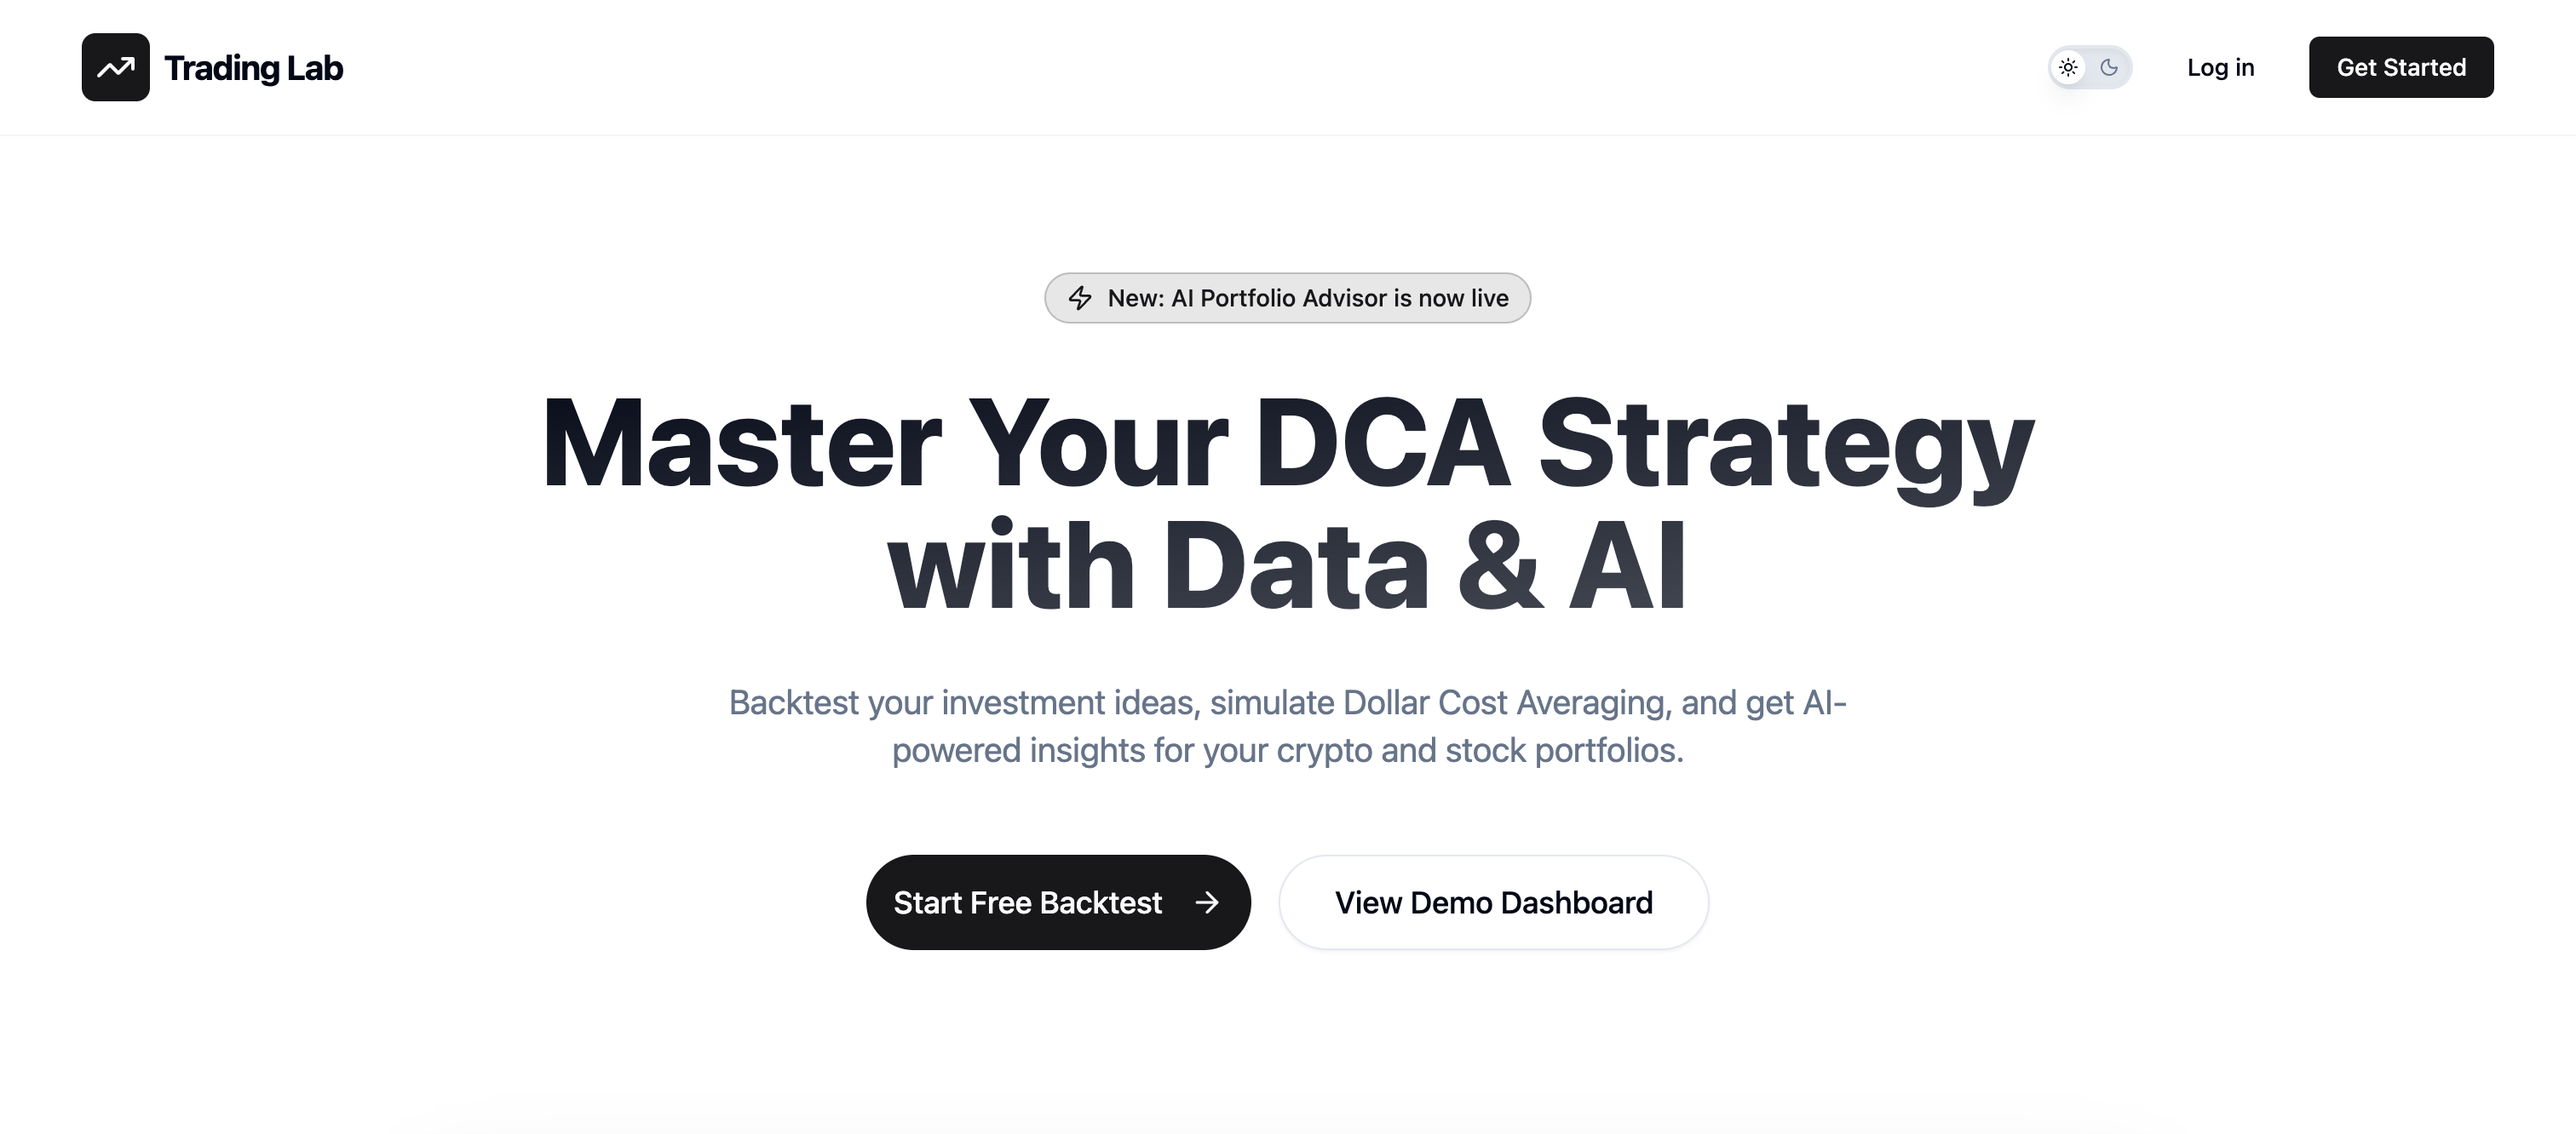
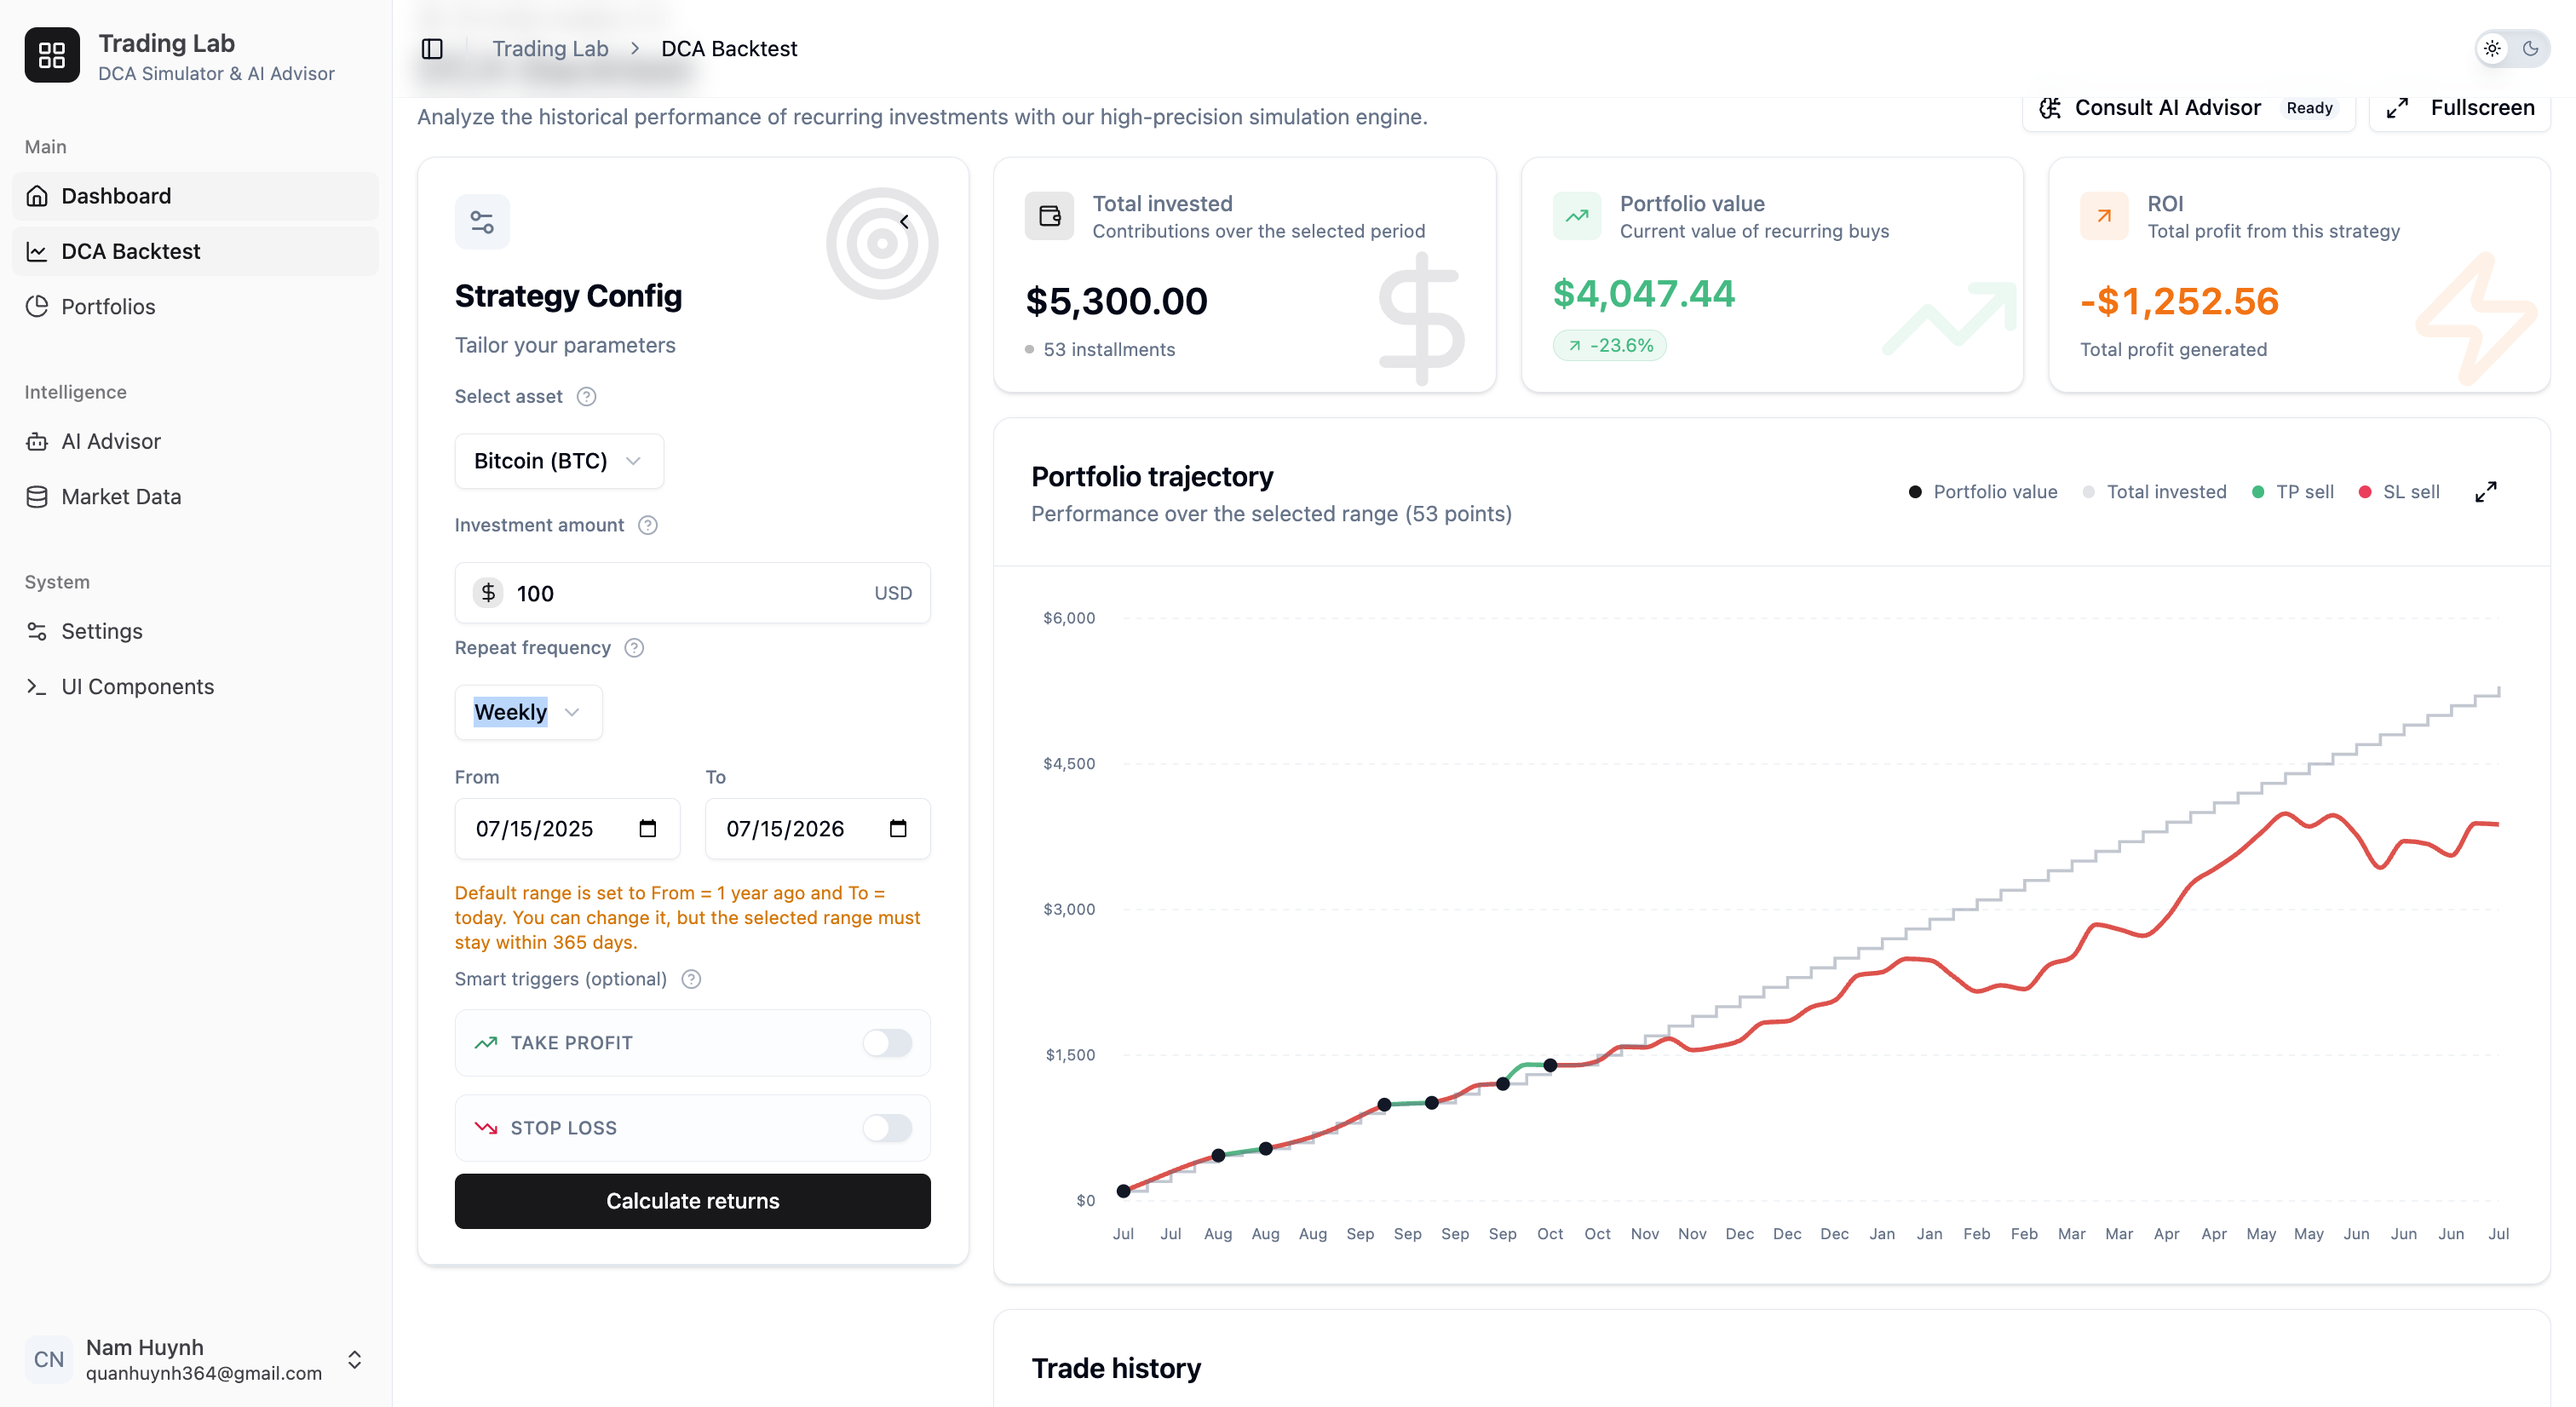
add more project and fix layout

diff --git a/src/styles.css b/src/styles.css
@@ -2836,15 +2836,12 @@ img {
 
 .coming-soon-card {
   cursor: default;
+  grid-column: 1 / -1;
+  height: auto;
 }
 
-.coming-soon-card .flip-front {
-  border-style: dashed;
-  background: repeating-linear-gradient(-45deg,
-      transparent,
-      transparent 8px,
-      rgba(var(--accent-rgb), 0.03) 8px,
-      rgba(var(--accent-rgb), 0.03) 16px), var(--surface);
+.coming-soon-card .flip-back {
+  display: none;
 }
 
 @media (hover: hover) and (pointer: fine) {
@@ -2853,20 +2850,93 @@ img {
   }
 }
 
-.coming-soon-card .project__preview-icon {
-  animation: float-icon 3s ease-in-out infinite;
+.coming-soon-card .flip-front {
+  position: static;
+  height: auto;
+  background: #0d1f12;
+  border: 1px solid rgba(255, 255, 255, 0.08);
+  border-radius: var(--radius-lg);
+  display: flex;
+  flex-direction: column;
+  align-items: center;
+  text-align: center;
+  padding: 3.5rem 2rem;
+  transition: background 0.45s ease, border-color 0.45s ease;
 }
 
-@keyframes float-icon {
+[data-theme="dark"] .coming-soon-card .flip-front {
+  background: #04080f;
+  border-color: rgba(255, 255, 255, 0.06);
+}
 
-  0%,
-  100% {
-    transform: translateY(0);
+.coming-soon-card .project__preview {
+  display: none;
+}
+
+.coming-soon-orbit {
+  position: relative;
+  width: 56px;
+  height: 56px;
+  margin-bottom: 1.25rem;
+}
+
+.coming-soon-orbit__icon {
+  position: absolute;
+  inset: 0;
+  border-radius: 50%;
+  background: rgba(var(--accent-rgb), 0.12);
+  display: flex;
+  align-items: center;
+  justify-content: center;
+  color: var(--accent-bright);
+  transition: background 0.45s ease, color 0.45s ease;
+}
+
+.coming-soon-orbit__dot {
+  position: absolute;
+  width: 7px;
+  height: 7px;
+  border-radius: 50%;
+  background: var(--accent-bright);
+  box-shadow: 0 0 8px rgba(var(--accent-rgb), 0.5);
+  top: 50%;
+  left: 50%;
+  animation: orbit-spin 3s linear infinite;
+  transition: background 0.45s ease, box-shadow 0.45s ease;
+}
+
+@keyframes orbit-spin {
+  from {
+    transform: translate(-50%, -50%) rotate(0deg) translateX(28px) rotate(0deg);
   }
 
-  50% {
-    transform: translateY(-8px);
+  to {
+    transform: translate(-50%, -50%) rotate(360deg) translateX(28px) rotate(-360deg);
   }
+}
+
+.coming-soon-card .project__body {
+  display: flex;
+  flex-direction: column;
+  align-items: center;
+  padding: 0;
+}
+
+.coming-soon-card .project__tag {
+  margin-bottom: 1rem;
+  background: rgba(var(--accent-rgb), 0.15);
+  border-color: rgba(var(--accent-rgb), 0.3);
+  color: var(--accent-bright);
+}
+
+.coming-soon-card .project__title {
+  color: white;
+}
+
+.coming-soon-card .project__desc {
+  margin-bottom: 0;
+  max-width: 420px;
+  color: rgba(255, 255, 255, 0.55);
 }
 
 /* Touch devices: fade instead of 3D flip (avoids mobile rendering bugs) */

diff --git a/src/App.jsx b/src/App.jsx
@@ -25,6 +25,7 @@ import {
   IconTrendingUp,
   IconSchool,
   IconBrandJavascript,
+  IconShoppingCart,
 } from '@tabler/icons-react';
 import { useTheme } from './context/ThemeContext';
 import { useTilt } from './hooks/useTilt';
@@ -78,6 +79,17 @@ const projects = [
     live: 'https://po-trading-lab.vercel.app/',
     dates: 'Apr 2026 – Present',
     previewImg: '/assets/tradinglab-preview.png',
+  },
+  {
+    tag: 'Full Stack',
+    title: 'OpenCart',
+    description: 'Full-stack multi-vendor marketplace with Stripe Connect payment splitting, real-time chat via polling, Redis caching, and AWS S3 product image storage.',
+    Icon: IconShoppingCart,
+    stack: ['Next.js', 'PostgreSQL', 'Prisma', 'Redis', 'Stripe Connect', 'NextAuth', 'AWS S3'],
+    github: 'https://github.com/nhuynh30/OpenCart',
+    live: 'https://open-cart-fawn.vercel.app/',
+    dates: 'Jul 2026 – Present',
+    previewImg: '/assets/opencart.png',
   },
   {
     tag: 'Coming Soon',
@@ -566,18 +578,27 @@ function FlipCard({ project }) {
       <div className="flip-inner">
         {/* FRONT */}
         <div className="flip-front">
-          <div className={`project__preview${project.previewImg ? ' has-img' : ''}`}>
-            {project.previewImg && (
-              <img
-                src={project.previewImg}
-                alt={`${project.title} preview`}
-                className="project__preview-img"
-              />
-            )}
-            <div className="project__preview-icon">
-              <project.Icon size={project.previewImg ? 16 : 28} />
+          {isComingSoon ? (
+            <div className="coming-soon-orbit">
+              <div className="coming-soon-orbit__icon">
+                <project.Icon size={24} />
+              </div>
+              <div className="coming-soon-orbit__dot"></div>
             </div>
-          </div>
+          ) : (
+            <div className={`project__preview${project.previewImg ? ' has-img' : ''}`}>
+              {project.previewImg && (
+                <img
+                  src={project.previewImg}
+                  alt={`${project.title} preview`}
+                  className="project__preview-img"
+                />
+              )}
+              <div className="project__preview-icon">
+                <project.Icon size={project.previewImg ? 16 : 28} />
+              </div>
+            </div>
+          )}
           <div className="project__body">
             <span className="project__tag">{project.tag}</span>
             <h3 className="project__title">{project.title}</h3>
